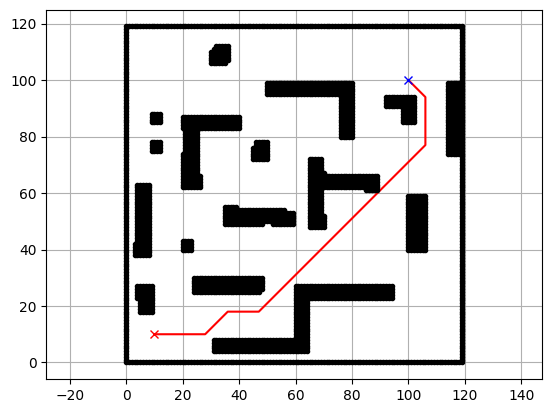
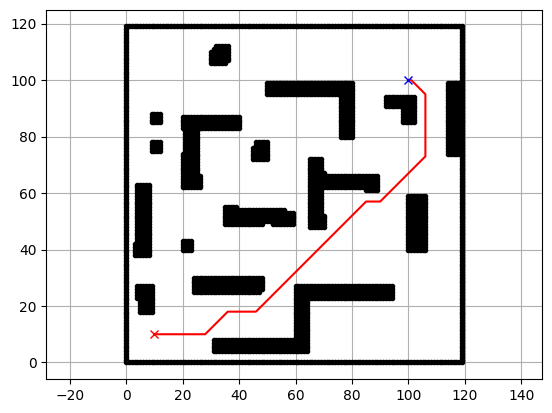
HW1

diff --git a/HW1/Task_2.py b/HW1/Task_2.py
@@ -72,7 +72,7 @@ def Improved_A_star(world_map, start_pos, goal_pos):
     # 权重
     w_obs = 3.0 # 距障惩罚权重，惩罚贴边
     w_turn = 0.5 # 转弯惩罚权重，惩罚拐弯
-    safety_buffer = 0.0 # 安全缓冲
+    safety_buffer = 3.0 # 安全缓冲
 
     def obstacle_penalty(n):
         d = dist_map[n[0], n[1]] # 当前格到最近障碍的距离
@@ -195,5 +195,5 @@ if __name__ == '__main__':
     plt.plot(obstacles_x, obstacles_y, ".k")
     plt.grid(True)
     plt.axis("equal")
-    plt.show()
-    # plt.savefig('HW1/Figures/Task_2.png', bbox_inches='tight')
+    # plt.show()
+    plt.savefig('HW1/Figures/Task_2.png', bbox_inches='tight')
